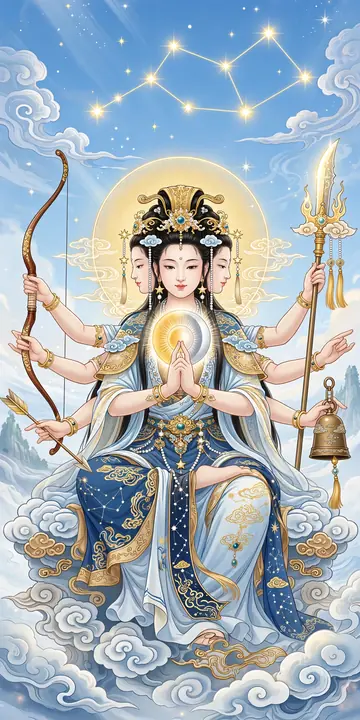
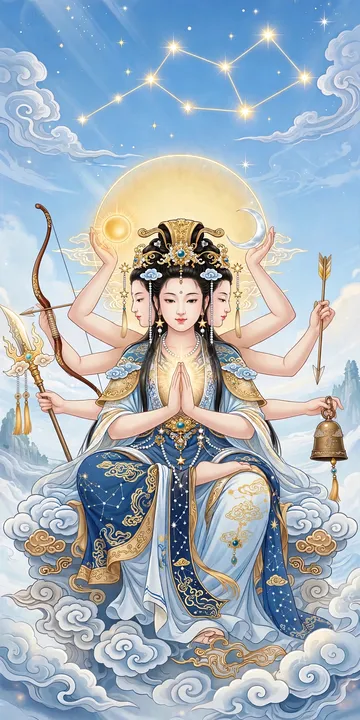
图鉴四图按用户验收定版同步：临水夫人坐像举剑版（去蛇鞭、法剑＋法角）＋西王母下摆加长罩脚＋元始天尊磨纹穿云头履＋斗姆分托日月八臂比例修正（720/360衍生重制）；linshui/doumu appearance与源头deities.json对齐；显示 v1.3.9（15）；SW v55

diff --git a/www/js/deities-data.js b/www/js/deities-data.js
@@ -208,7 +208,7 @@ window.DEITIES_DATA = {
    "temple": "北斗星宫；人间宫观以泰山斗姆宫、武当山斗姆宫为著",
    "domain": "北斗众星之母，掌星辰运转、延生注寿、消灾解厄",
    "intro": "斗姆元君是北斗七星（连同左辅右弼共九星）的母亲，被尊为「北斗众星之母」。道经《太上玄灵斗姆大圣元君本命延生心经》称，虔心持诵斗姆圣号可延生消灾。九月初九既是斗姆圣诞，也是东南亚、闽台九皇斋节的高潮。其四首八臂、手持多件法器的造像源自宋元道教造像传统，象征普照四方、手挽天纲的权能。北斗信仰在中国源远流长，「南斗注生、北斗注死」即出于此系统。",
-   "appearance": "庄严女神，四首八臂，各持日、月、弓、箭、戟、铃等法器，端坐云座",
+   "appearance": "庄严女神，四首八臂，上二手分托日轮、月轮，余手分持弓、箭、戟、铃，胸前一对合掌，端坐云座",
    "image": "doumu.webp"
   },
   {
@@ -373,7 +373,7 @@ window.DEITIES_DATA = {
    "temple": "福建古田临水宫（祖庙）",
    "domain": "妇幼保护神，主助产保胎、佑护孩童，兼斩妖除祟",
    "intro": "临水夫人陈靖姑，相传生于唐代大历年间，福州下渡人，自幼聪慧，拜闾山派学法，能呼风唤雨、斩妖除祟。二十四岁时于古田临水一带斩杀为害产妇的蛇精，力竭而逝，百姓感念立庙，宋时敕封「临水夫人」——此属地方志与庙传所载的传说生平。其信仰遍布福建、台湾与东南亚，被尊为妇女难产与孩童平安的守护神，「临水夫人」与妈祖、碧霞元君并称海峡两岸最具影响力的三大女神。",
-   "appearance": "成熟英气的闾山女法师，红法衣、发髻凤钗，右手法剑、左手法角，腰悬蛇鞭，立于临水宫前",
+   "appearance": "端坐龙头扶手宝座，头戴凤冠，身着正红袍、金线绣凤纹云纹，右手高举法剑、左手横持法角，面相成熟端庄，背景为古田临水宫与石桥",
    "image": "linshui.webp"
   },
   {

diff --git a/www/index.html b/www/index.html
@@ -12,8 +12,8 @@
 <link rel="preload" as="image" href="img/logo-96.png">
 <title>戊日不上香</title>
 <script>try{var _c=JSON.parse(localStorage.getItem('wuri_cfg_v1')||'{}');var _t=_c.theme||'auto';var _n=_t==='night'||(_t==='auto'&&window.matchMedia&&matchMedia('(prefers-color-scheme: dark)').matches);document.documentElement.setAttribute('data-theme',_n?'night':'day');}catch(e){document.documentElement.setAttribute('data-theme','day');}</script>
-<link rel="stylesheet" href="css/style.css?v=54">
-<link rel="stylesheet" href="css/meditation.css?v=54">
+<link rel="stylesheet" href="css/style.css?v=55">
+<link rel="stylesheet" href="css/meditation.css?v=55">
 </head>
 <body>
 <div id="app">
@@ -564,7 +564,7 @@
     </section>
     <section class="card">
       <div class="card-title" data-i18n="me_about">关于</div>
-      <div class="detail-row"><span class="dl" data-i18n="me_app">应用</span><span data-i18n="me_ver">戊日不上香 v1.3.9（14） (2026-10-18)</span></div>
+      <div class="detail-row"><span class="dl" data-i18n="me_app">应用</span><span data-i18n="me_ver">戊日不上香 v1.3.9（15） (2026-10-18)</span></div>
       <div class="detail-row"><span class="dl">开发者</span><span>Shengbo Yu</span></div>
       <div class="detail-row"><span class="dl">联系邮箱</span><a href="javascript:void(0)" id="contact-email" data-email="dennisdysb@gmail.com">dennisdysb@gmail.com</a></div>
       <p class="hint" data-i18n="me_about_hint">戊日不朝真。本应用按日柱天干推算戊日并提前提醒，农历、干支、节气、宜忌均由内置历法库离线计算。</p>

diff --git a/www/sw.js b/www/sw.js
@@ -1,5 +1,5 @@
 /* 戊日不上香 · Service Worker（离线缓存） */
-const CACHE = 'wuri-v54-20261018-linshui';
+const CACHE = 'wuri-v55-20261018-deityfixes';
 const ASSETS = [
   './',
   './index.html',
@@ -12,8 +12,8 @@ const ASSETS = [
   './img/logo-96.png',
   './img/qr-wechat.png',
   './img/qr-alipay.jpg',
-  './css/style.css?v=54',
-  './css/meditation.css?v=54',
+  './css/style.css?v=55',
+  './css/meditation.css?v=55',
   './icon-192.png',
   './icon-512.png',
   './js/ai-analysis.js',
